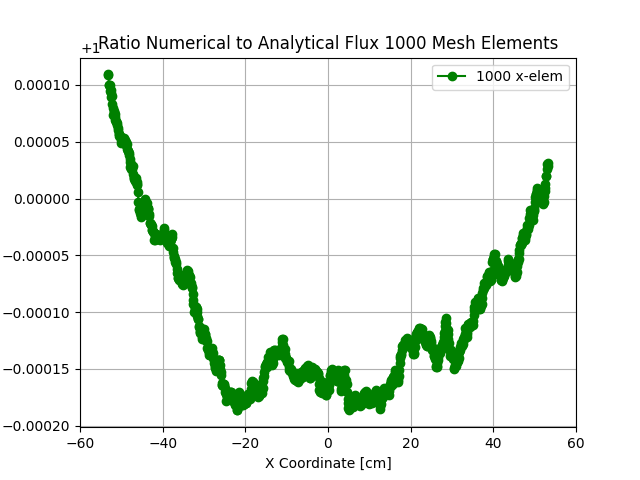
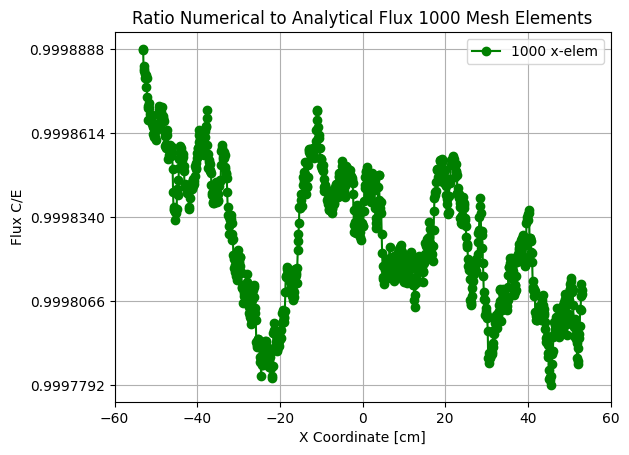
cleanup and replotting the fluxes computed with correct mesh centroids

diff --git a/simulations/visualization/no_ss_no_mesh_template_flux_relaxation_on/viz.py b/simulations/visualization/no_ss_no_mesh_template_flux_relaxation_on/viz.py
@@ -6,10 +6,10 @@ import numpy as np
 import matplotlib.pyplot as plt
 from matplotlib import ticker as mtick
 import pandas as pd
+import scipy.stats as stats
 
 # list mesh element sizes that will be used to iterate through all cases
-# n_elems = [50,100,250,500,1000]
-n_elems = [50,100,250,500,1000]
+n_elems = np.array([50,100,250,500,1000])
 log_N = np.log10(n_elems)
 L = 106.47 # equilibrium length from paper
 P = 1.0e22 # eV/s
@@ -54,11 +54,11 @@ ratios_temp_num_to_analy = {}
 for n in n_elems:
     analytical_phi[n] = phi0*np.sqrt(1- ((lam - 1)*P*P*np.multiply(xx[n],xx[n]))/(L*L*q*q*phi0*phi0))
     analytical_T[n] = Sig_t0*T0*np.sqrt( (q*q*L*L*phi0*phi0)/(P*P) - (lam-1)*np.multiply(xx[n],xx[n]))
-    ratios_temp_num_to_analy[n] = []
-    ratios_flux_num_to_analy[n] = [] 
+    ratios_temp_num_to_analy[n] = np.zeros(n)
+    ratios_flux_num_to_analy[n] = np.zeros(n)
     for i in range(n):
-        ratios_flux_num_to_analy[n].append(cardinal_fluxes[n][i]/analytical_phi[n][i])
-        ratios_temp_num_to_analy[n].append(temps[n][i]/analytical_T[n][i])
+        ratios_flux_num_to_analy[n][i] = cardinal_fluxes[n][i]/analytical_phi[n][i]
+        ratios_temp_num_to_analy[n][i] = temps[n][i]/analytical_T[n][i]
 
 # plot analytical flux for 50
 plt.plot(xx[50],analytical_phi[50],'-o')
@@ -68,18 +68,18 @@ plt.grid()
 plt.savefig("analytical_flux_50.png")
 plt.clf()
 
-# #plot individual C/E
-# for n in n_elems:
-#     plt.plot(xx[n],ratios_flux_num_to_analy[n],'-go',label=f"{n} x-elem")
-#     plt.xticks([-60,-40,-20,0,20,40,60])
-#     plt.yticks(np.linspace(np.min(ratios_flux_num_to_analy[n]),np.max(ratios_flux_num_to_analy[n]),5))
-#     plt.xlabel("X Coordinate [cm]")
-#     plt.ylabel(r"Flux C/E")
-#     plt.title(f"Ratio Numerical to Analytical Flux {n} Mesh Elements")
-#     plt.legend()
-#     plt.grid()
-#     plt.savefig(f"num_to_analytical_flux_{n}.png",bbox_inches='tight')
-#     plt.clf()
+#plot individual C/E
+for n in n_elems:
+    plt.plot(xx[n],ratios_flux_num_to_analy[n],'-go',label=f"{n} x-elem")
+    plt.xticks([-60,-40,-20,0,20,40,60])
+    plt.yticks(np.linspace(np.min(ratios_flux_num_to_analy[n]),np.max(ratios_flux_num_to_analy[n]),5))
+    plt.xlabel("X Coordinate [cm]")
+    plt.ylabel(r"Flux C/E")
+    plt.title(f"Ratio Numerical to Analytical Flux {n} Mesh Elements")
+    plt.legend()
+    plt.grid()
+    plt.savefig(f"num_to_analytical_flux_{n}.png",bbox_inches='tight')
+    plt.clf()
 
 # plot all temp C/E on one plot
 for n in n_elems:
@@ -143,39 +143,40 @@ plt.grid()
 plt.savefig("temp_error_norms.png",bbox_inches='tight')
 plt.clf()
 
-# linear polynomial fit to get slope of line of best fit temp
-pt = np.polyfit(log_N,log_temp_error_norms,1)
-print("polyfit pt:" , pt)
+# compute flux error norm
+flux_deviations = {}
+flux_dev_norms = {}
+analytical_norms = {}
+flux_error_norms = {}
+# flux error ratio
+for n in n_elems:
+    flux_deviations[n] = []
+    # compute mean, stdev, and analytical - numerical
+    for i in range(n):
+        flux_deviations[n].append(analytical_phi[n][i]-cardinal_fluxes[n][i])
+    flux_dev_norms[n] = np.linalg.norm(flux_deviations[n],ord=2)
+    analytical_norms[n] = np.linalg.norm(analytical_phi[n],ord=2)
+    # ratio is error norm
+    flux_error_norms[n] = flux_dev_norms[n]/analytical_norms[n]
 
-# MOVED TO RESTARTS DIRECTORY BUT COMMENTED OUT FOR POSTERITY
-# # compute flux error norm
-# flux_deviations = {}
-# flux_dev_norms = {}
-# analytical_norms = {}
-# flux_error_norms = {}
-# # flux error ratio
-# for n in n_elems:
-#     flux_deviations[n] = []
-#     # compute mean, stdev, and analytical - numerical
-#     for i in range(n):
-#         flux_deviations[n].append(analytical_phi[n][i]-cardinal_fluxes[n][i])
-#     flux_dev_norms[n] = np.linalg.norm(flux_deviations[n],ord=2)
-#     analytical_norms[n] = np.linalg.norm(analytical_phi[n],ord=2)
-#     # ratio is error norm
-#     flux_error_norms[n] = flux_dev_norms[n]/analytical_norms[n]
+log_flux_error_norms = [np.log10(flux_error_norms[n]) for n in n_elems]
 
-# log_flux_error_norms = [np.log10(flux_error_norms[n]) for n in n_elems]
-# print(log_flux_error_norms)
-# # linear polynomial fit to get slope of line of best fit
-# pf = np.polyfit(log_N,log_flux_error_norms,1)
-# print("polyfit pf:" , pf)
+# linear polynomial fit to get slope of line of best fit
+pf = np.polyfit(log_N,log_flux_error_norms,1)
+print("polyfit pf:" , pf)
 
-# plt.plot(log_N,log_flux_error_norms,'-o',label=r'$\epsilon_{\phi}=\frac{||\phi_{a} - \phi_{x} ||_{2}}{|| \phi_{a} ||_{2}}$')
-# plt.xlabel(r"Log of number of X elements $\log(N)$",fontsize=16)
-# plt.ylabel(r"Log of Error Norm $log(\epsilon_{\phi})$",fontsize=16)
-# # plt.title("Flux Error Norm vs Mesh Size \n 200 Picard Iterations with Relaxation")
-# plt.yticks(np.linspace(-6,-10,6))
-# plt.grid()
-# plt.legend(bbox_to_anchor=[0.985,0.985],fontsize=14)
-# plt.savefig("flux_error_norms.png",bbox_inches='tight')
-# plt.clf()
+plt.plot(log_N,log_flux_error_norms,'-o',label=r'$\epsilon_{\phi}=\frac{||\phi_{a} - \phi_{x} ||_{2}}{|| \phi_{a} ||_{2}}$')
+plt.xlabel(r"Log of number of X elements $\log(N)$",fontsize=16)
+plt.ylabel(r"Log of Error Norm $log(\epsilon_{\phi})$",fontsize=16)
+# plt.title("Flux Error Norm vs Mesh Size \n 200 Picard Iterations with Relaxation")
+plt.yticks(np.linspace(-3.75,-4,5))
+plt.grid()
+plt.legend(bbox_to_anchor=[0.985,0.985],fontsize=14)
+plt.savefig("flux_error_norms.png",bbox_inches='tight')
+plt.clf()
+
+results_T = stats.linregress(log_N,log_temp_error_norms)
+print("slope = ", results_T.slope, " r-squared = ",results_T.rvalue*results_T.rvalue)
+
+results_flux = stats.linregress(log_N,log_flux_error_norms)
+print("slope = ", results_flux.slope, " r-squared = ",results_flux.rvalue*results_flux.rvalue)
